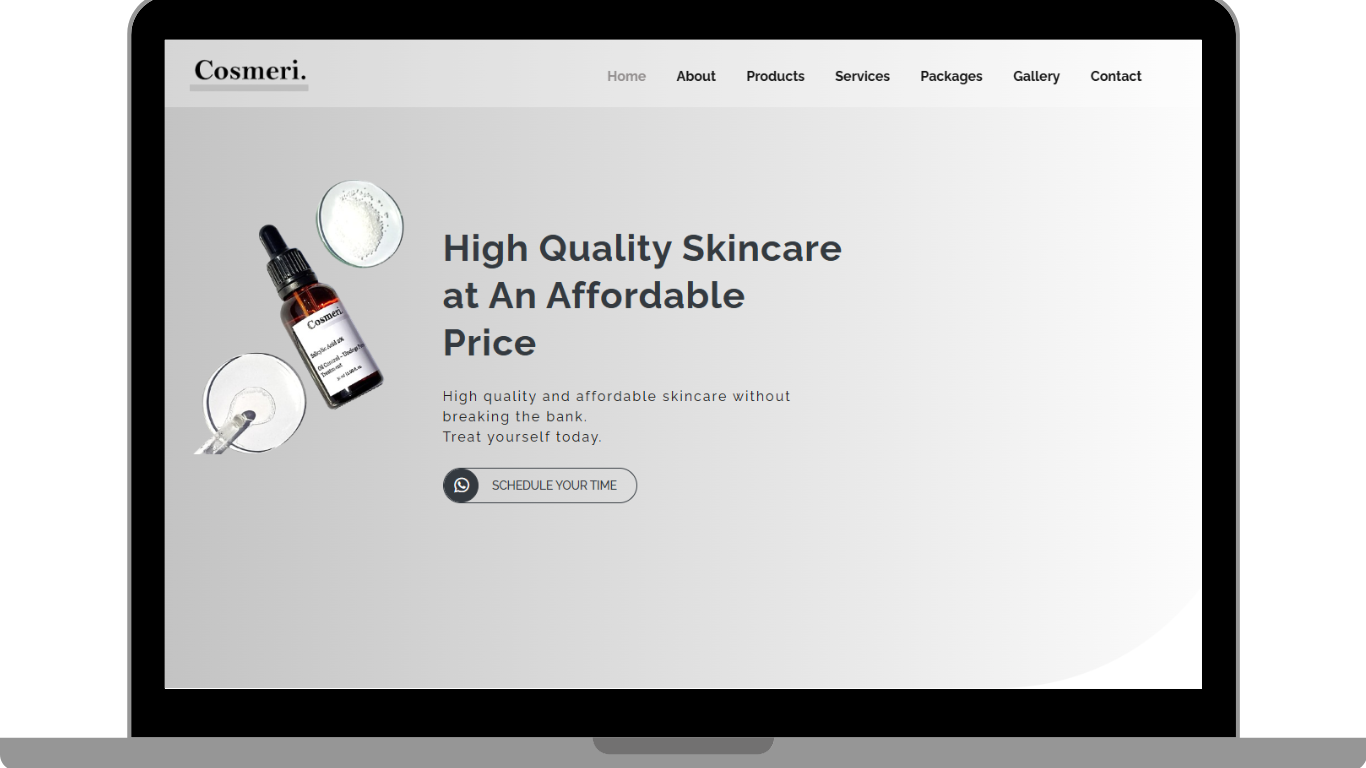
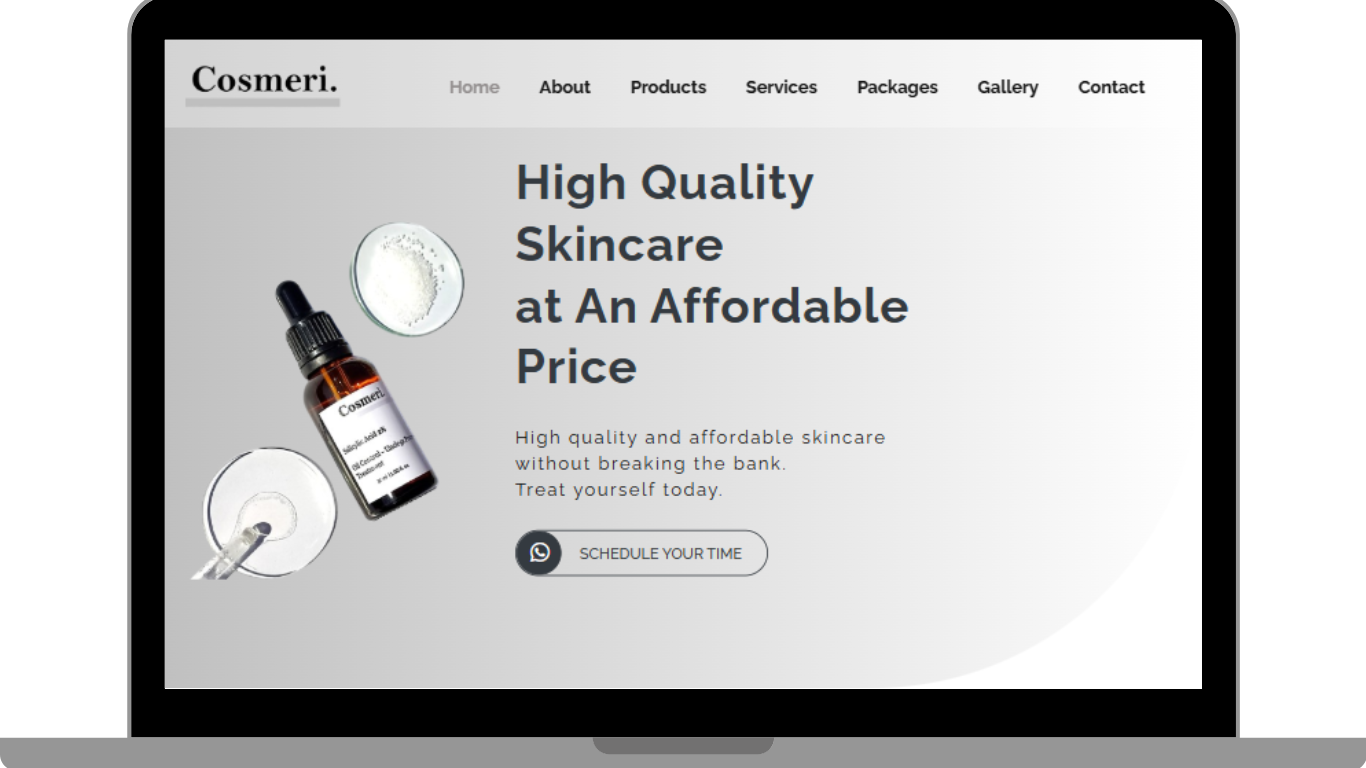
Updated Portfolio

diff --git a/views/portfolio.html b/views/portfolio.html
@@ -400,7 +400,7 @@
                   <!-- Slide 8 -->
                   <div class="swiper-slide swiper-slide-portfolio">
                     <img
-                      src="/assets/portfolio/laptop-mockup-webify.png"
+                      src="/assets/portfolio/laptop-mockup-awc.png"
                       alt="AWC Watches Website"
                     />
                     <p>AWC Watches</p>
@@ -432,7 +432,7 @@
                   <!-- Slide 10 -->
                   <div class="swiper-slide swiper-slide-portfolio">
                     <img
-                      src="/assets/portfolio/laptop-mockup-webify.png"
+                      src="/assets/portfolio/laptop-mockup-webx.png"
                       alt="WebX AI - Frontend Design"
                     />
                     <p>WebX AI - Frontend Design</p>
@@ -538,7 +538,7 @@
                   <!-- Cosmeri -->
                   <div class="swiper-slide swiper-slide-portfolio">
                     <img
-                      src="/assets/portfolio/laptop-mockup-webify.png"
+                      src="/assets/portfolio/laptop-mockup-cosmeri-cms.png"
                       alt="Cosmeri Skincare CMS Website"
                     />
                     <p>Cosmeri Skincare</p>
@@ -554,7 +554,7 @@
                   <!-- CrrestPoint Credit -->
                   <div class="swiper-slide swiper-slide-portfolio">
                     <img
-                      src="/assets/portfolio/laptop-mockup-webify.png"
+                      src="/assets/portfolio/laptop-mockup-crestpointcredit-cms.png"
                       alt="CrestPoint Credit CMS Website"
                     />
                     <p>CrestPoint Credit</p>

diff --git a/css/styles.css b/css/styles.css
@@ -182,7 +182,7 @@ h3 {
 	text-align: center;
 	font-size: 1em;
 	font-family: var(--Lexend), var(--Instrument), var(--Inter);
-	font-weight: bold;
+	/* font-weight: bold; */
     letter-spacing: 0.1px;
 	line-height: 1.4;
 	transition: all 0.2s ease-in-out;
@@ -722,7 +722,6 @@ body.dark-mode .main .about h2 {
     left: 70%; /* Centering */
     transform: translate(-50%, -50%);
     height: 200%;
-    opacity: 0.4;
     /* animation: pulsate 45s ease-in-out infinite;  */
 	/* animation: fadeEffect 3s infinite alternate; */
 	/* animation: colorShift 20s infinite ease-in-out; */
@@ -731,9 +730,9 @@ body.dark-mode .main .about h2 {
 }
 
 @keyframes fadeColor {
-    0% { opacity: 0.2; filter: hue-rotate(0deg); }
-    50% { opacity: 0.6; filter: hue-rotate(45deg); }
-    100% { opacity: 0.2; filter: hue-rotate(0deg); }
+    0% { opacity: 0; filter: hue-rotate(0deg); }
+    50% { opacity: 0.35; filter: hue-rotate(45deg); }
+    100% { opacity: 0; filter: hue-rotate(0deg); }
 }
 
 /* @keyframes colorShift {
@@ -899,7 +898,7 @@ body.dark-mode .main .about h2 {
 	/* background-attachment: fixed; */
     /* height: 100vh; */
     width: 100%;
-    background-size: 55%;
+    background-size: 59%;
 }
 
 .services h2 {	
@@ -2289,7 +2288,6 @@ hr {
 		transform: scale(1.85);
 		/* mix-blend-mode: exclusion; */
 		opacity: 0.15;
-		animation: none;
 	}
 
 	/* About Section */
@@ -2466,6 +2464,10 @@ hr {
 }
 
 @media (max-width: 412px) {
+	/* global button class */
+.cta-btn {
+	font-weight: bold;
+}
 	.container {
 		padding: 0.75rem 0 0;
 	}

diff --git a/views/work-process/packages.html b/views/work-process/packages.html
@@ -717,7 +717,7 @@
 					<div class="container">
 						<h2>Contact Us</h2>
 						<div class="contact-info">
-							<div class="contact-details" data-aos="zoom-in"	data-aos-delay="150">
+							<div class="contact-details" data-aos="zoom-in"	data-aos-delay="100">
 								<h3>Get in Touch</h3>
 								<br />
 								<p>

diff --git a/views/services/seo-integration.html b/views/services/seo-integration.html
@@ -457,7 +457,7 @@
 					  <h2>Contact Us</h2>
 					  <div class="contact-info">
 						<div
-						  class="contact-details" data-aos="zoom-in" data-aos-delay="150">
+						  class="contact-details" data-aos="zoom-in" data-aos-delay="100">
 						  <h3>Get in Touch</h3>
 						  <br />
 						  <p>

diff --git a/views/about-us.html b/views/about-us.html
@@ -456,7 +456,7 @@
               <div
                 class="contact-details"
                 data-aos="zoom-in"
-                data-aos-delay="150"
+                data-aos-delay="100"
               >
                 <h3>Get in Touch</h3>
                 <br />

diff --git a/views/services/application-maintenance-and-support.html b/views/services/application-maintenance-and-support.html
@@ -423,7 +423,7 @@
               <div
                 class="contact-details"
                 data-aos="zoom-in"
-                data-aos-delay="150"
+                data-aos-delay="100"
               >
                 <h3>Get in Touch</h3>
                 <br />

diff --git a/views/services/custom-website-development.html b/views/services/custom-website-development.html
@@ -597,7 +597,7 @@
               <div
                 class="contact-details"
                 data-aos="zoom-in"
-                data-aos-delay="150"
+                data-aos-delay="100"
               >
                 <h3>Get in Touch</h3>
                 <br />

diff --git a/views/services/mobile-application-development.html b/views/services/mobile-application-development.html
@@ -465,7 +465,7 @@
               <div
                 class="contact-details"
                 data-aos="zoom-in"
-                data-aos-delay="150"
+                data-aos-delay="100"
               >
                 <h3>Get in Touch</h3>
                 <br />

diff --git a/views/services/website-development.html b/views/services/website-development.html
@@ -425,7 +425,7 @@
               <div
                 class="contact-details"
                 data-aos="zoom-in"
-                data-aos-delay="150"
+                data-aos-delay="100"
               >
                 <h3>Get in Touch</h3>
                 <br />

diff --git a/index.html b/index.html
@@ -720,7 +720,7 @@
             <div
               class="contact-details"
               data-aos="zoom-in"
-              data-aos-delay="150"
+              data-aos-delay="100"
             >
               <h3>Get in Touch</h3>
               <br />
